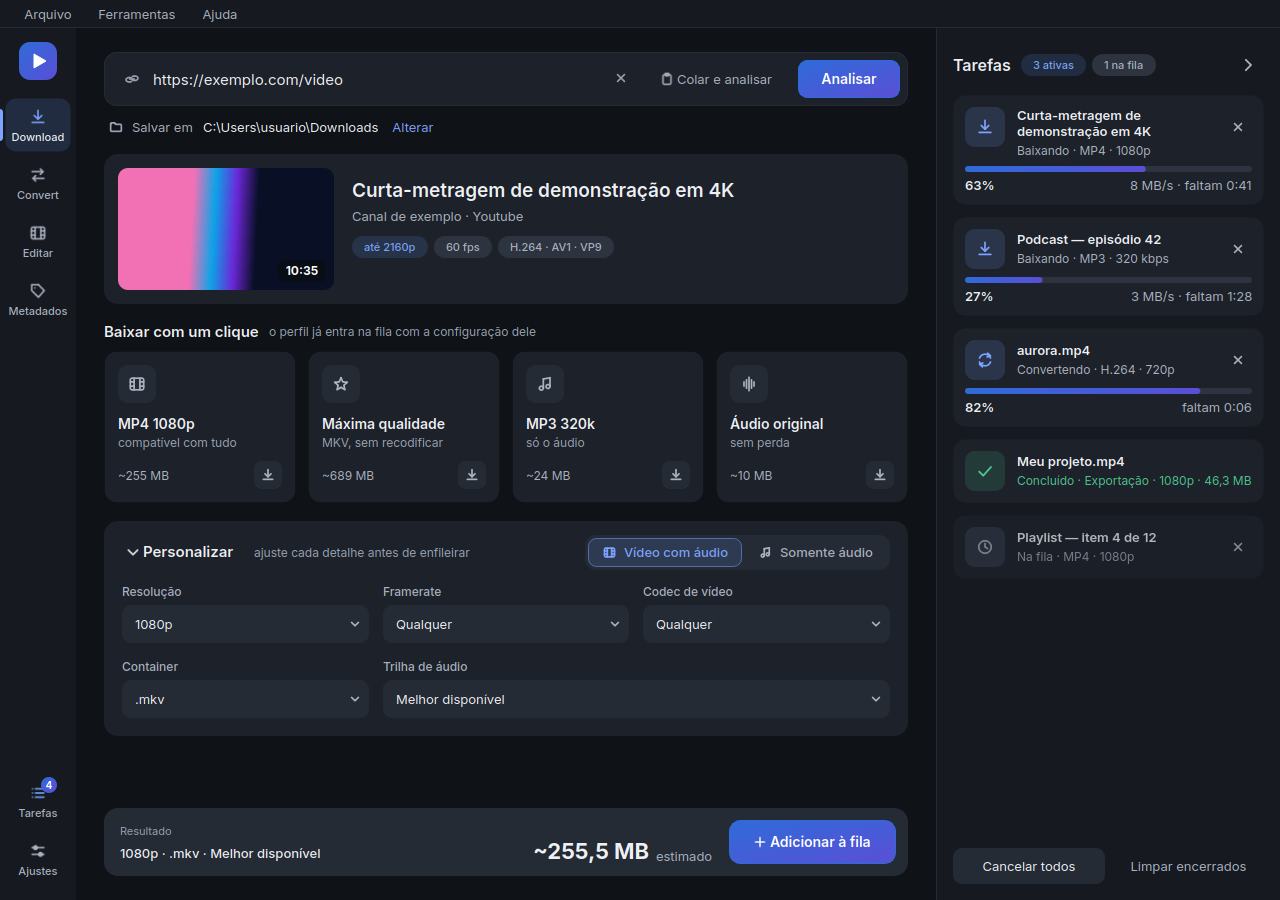
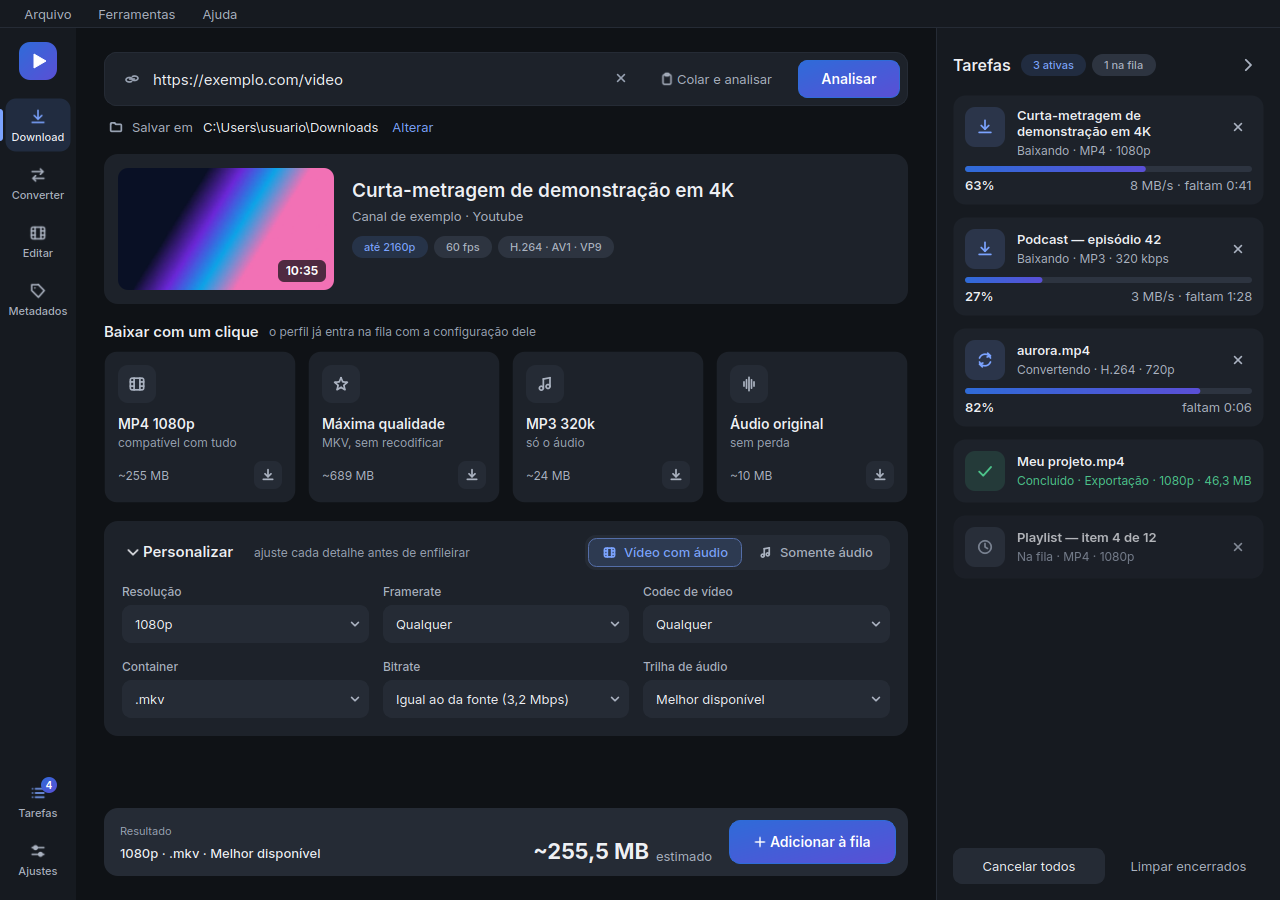
docs: imagens do README com a interface atual
As imagens de docs/imagens foram geradas em 2026-10-14 (044c869) e ficaram para
trás de três commits de interface do dia seguinte: o menu lateral ainda dizia
"Convert" (fbd793f), e a personalização do Download tinha só Container e Trilha
de áudio em duas colunas, sem o Bitrate (bf723a7, 45d1377, 7e4ffbc). O alt-text do
README já dizia "Aba Converter".

Regeneradas com scripts/capture_screenshots.py: download.png (Converter no menu, as
duas fileiras de três campos com o Bitrate e a trilha), convert.png e editor.png
(com a gaveta de tarefas aberta, como a interface é hoje). O demo.gif sai idêntico,
porque a edição exportada não mostra a interface.

O script passa a esperar a medida do tamanho terminar antes de capturar a aba
Converter: sem isso a imagem saía com "medindo…" e linhas medidas misturadas com
linhas ainda por medir.

Atende: DOC-001 (revisão de 4e11f3e a c4d90fd).

diff --git a/scripts/capture_screenshots.py b/scripts/capture_screenshots.py
@@ -177,6 +177,9 @@ def main() -> int:
     conversao._video_codec.setCurrentIndex(max(0, conversao._video_codec.findData("h264")))
     conversao._resize.setCurrentIndex(max(0, conversao._resize.findData(720)))
     processar(1.0)
+    # O tamanho é medido em trechos, em segundo plano: a imagem espera os números chegarem em vez de mostrar "medindo…".
+    esperar(lambda: not conversao._sampling and conversao._sampling_runner.active == 0, prazo=120.0)
+    processar(0.5)
     salvar("convert.png", 1280)
 
     # --- aba Editar ----------------------------------------------------------
